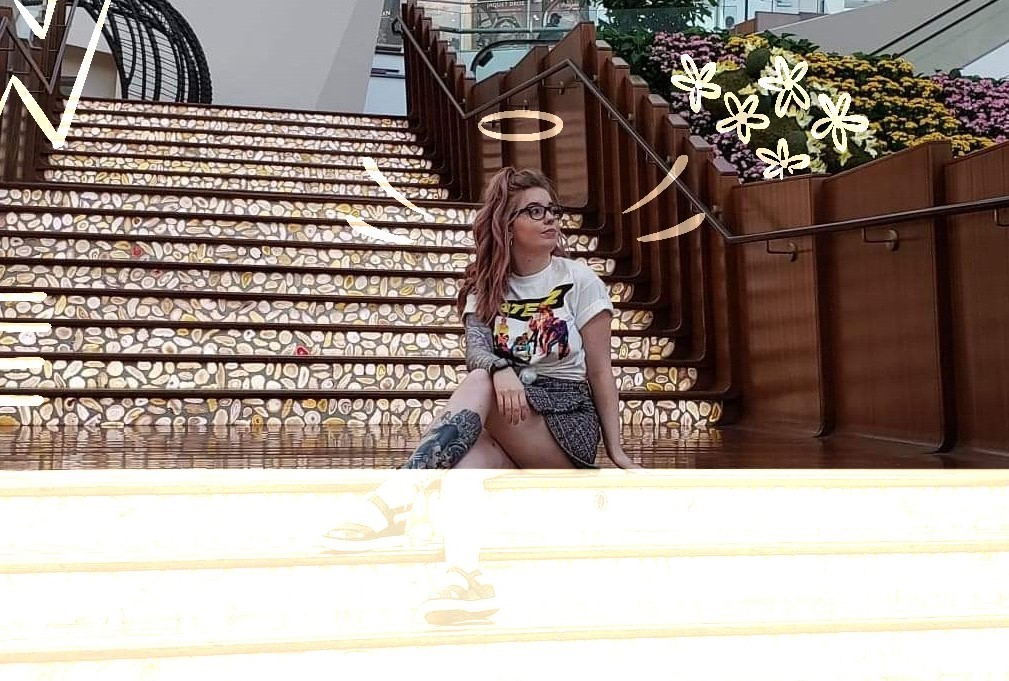
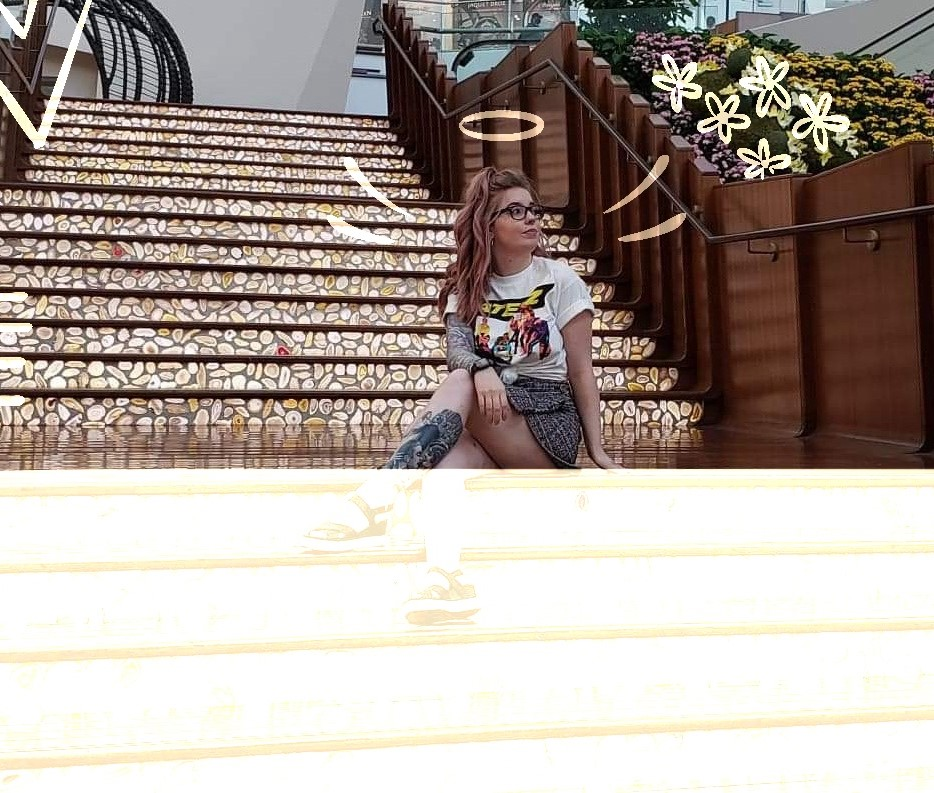
C

diff --git a/css/indexstyles.css b/css/indexstyles.css
@@ -133,7 +133,7 @@ nav li {
     width: 100%;
     flex-direction: row;
     position: absolute;
-    top: 32vh;  
+    top: 35vh;  
 }
 #title-quote p:nth-child(1) {
     margin-left: 10px;
@@ -156,12 +156,12 @@ h1 {
     font-family: 'Krona One';
     color:transparent;
     letter-spacing: 3px;
-    font-size: 55px;
+    font-size: 60px;
     text-transform: uppercase;
     margin: 5px 0px 0px 10px;
     padding: 10px 10px 0px 0px;
     position: absolute;
-    top: 22vh;
+    top: 24vh;
     -webkit-text-stroke: 2px #013220;
 }
 #home-main img {
@@ -198,7 +198,7 @@ h1 {
     height: auto;
     margin: auto;
     position: absolute;
-    top: 45vh;
+    top: 52vh;
     right: 0vh;
 
 }
@@ -220,17 +220,21 @@ h1 {
     width: 260px;
 }
 #basics {
+    background-color: var(--cream);
+    width: 90%;
+    z-index: 100;
     display: grid;
     grid-template-columns: 1fr 1fr;
     grid-template-areas: 'header header' 'attributes1 attributes2';
-    margin-bottom: 20px;
+    margin: auto;
+    margin-top: 160px;
 }
 #basics h3 {
     grid-area: header;
     color: var(--brown);
     font-size: 24px;
     font-family: 'Bebas Neue', 'Saira Condensed', san-serif;
-    margin: 5px 20px;
+    margin: 10px 10px;
     flex-basis: 100%;
 }
 #attributes1 {

diff --git a/index.html b/index.html
@@ -74,7 +74,7 @@
                 </button>
             </div>
             <div class="whoami-image">
-                <img src="images/IMG_0345.PNG" alt="ashley with an artistic drawing">
+                <img src="images/IMG_0346.PNG" alt="ashley with an artistic drawing">
             </div>
         </section>
         <section id="basics">
